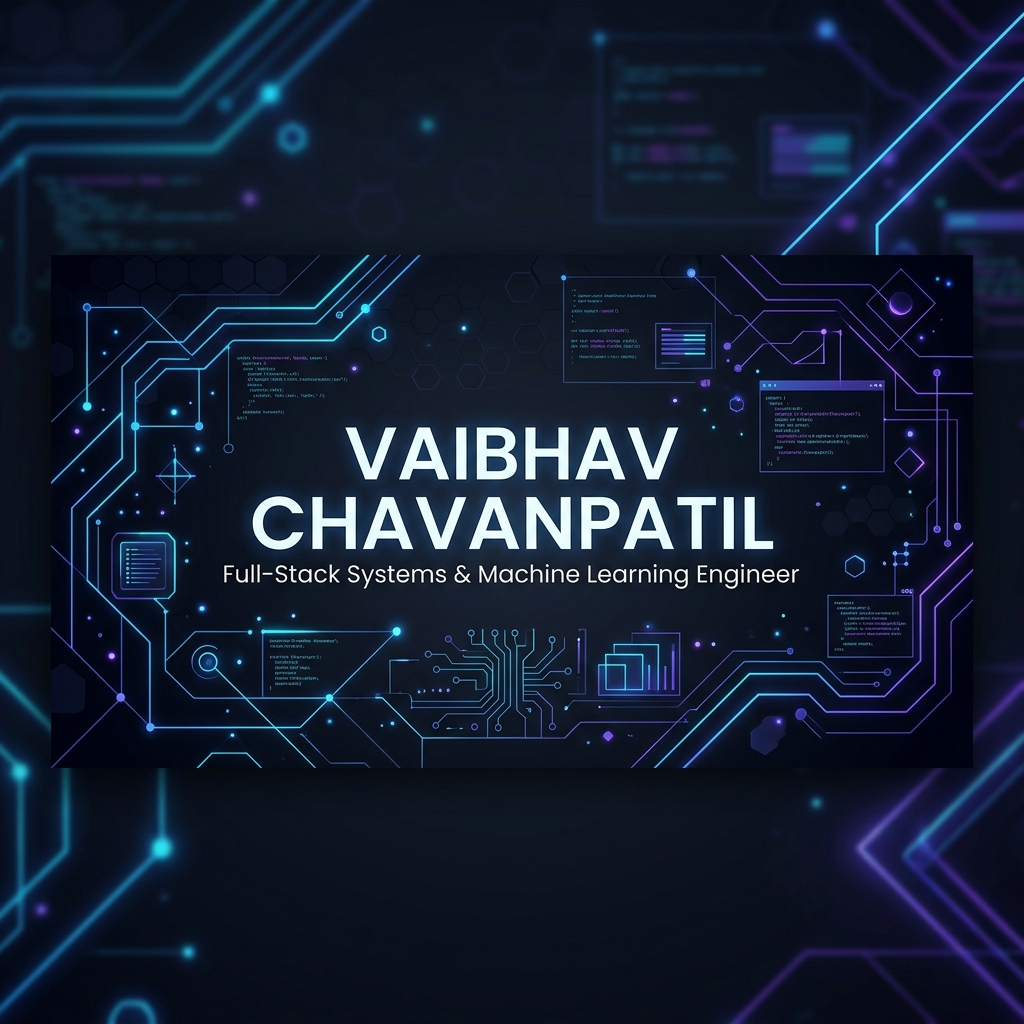
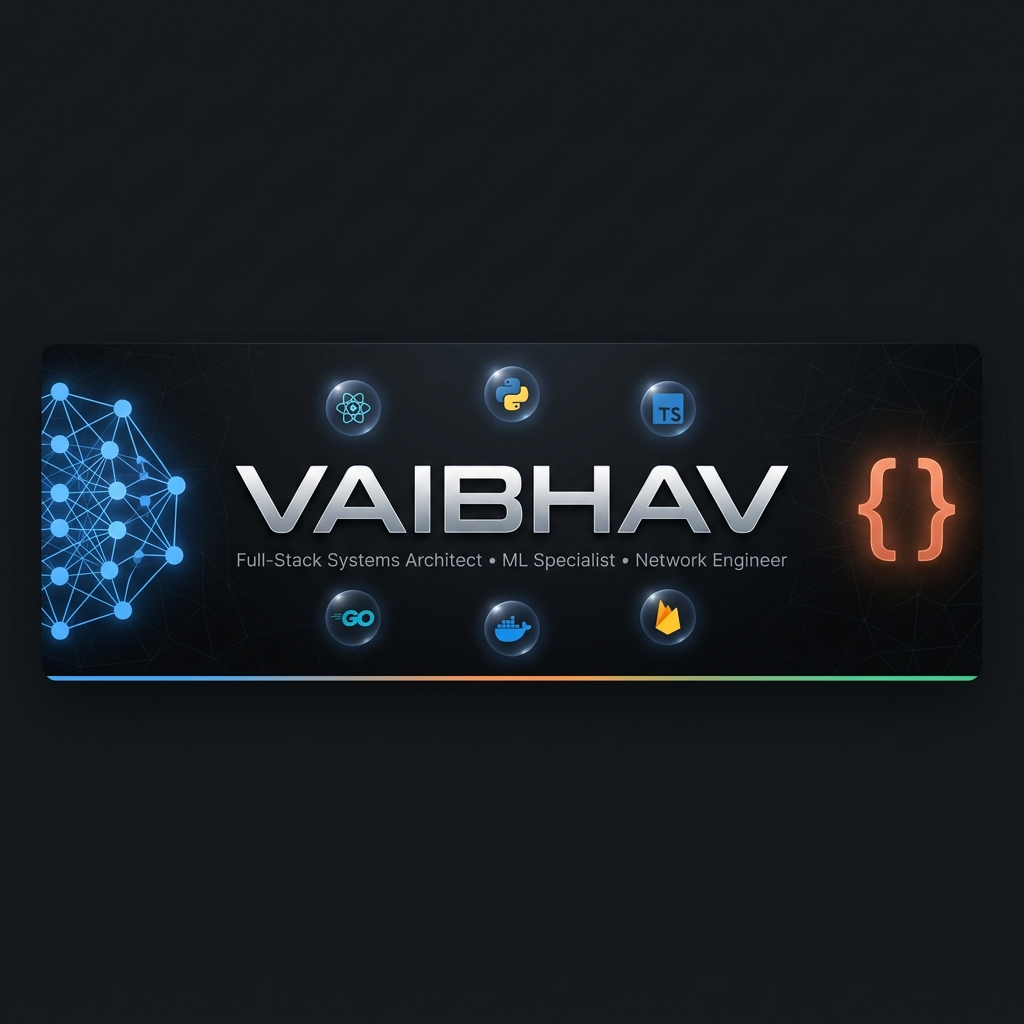
feat: premium profile with animated typing, tech stack grid, trophies, and EFA showcase

diff --git a/README.md b/README.md
@@ -1,21 +1,27 @@
 <div align="center">
 
-![Vaibhav Chavanpatil Header Banner](vaibhav_chavanpatil_banner.png)
+<img src="vaibhav_chavanpatil_banner.png" alt="Vaibhav Chavanpatil" width="100%" />
 
-# ⚡ Vaibhav Chavanpatil
-> **Full-Stack Systems Architect • Applied Machine Learning Specialist • Network Systems Engineer**
+<br />
 
-[![Portfolio](https://img.shields.io/badge/Portfolio-Visit%20My%20Work-3B82F6?style=for-the-badge&logo=vercel&logoColor=white)](https://portfolio-ten-nu-68ydd9o8ac.vercel.app/)
-[![LinkedIn](https://img.shields.io/badge/LinkedIn-Connect-0077B5?style=for-the-badge&logo=linkedin&logoColor=white)](https://www.linkedin.com/in/vaibhav-chavanpatil-a047b035a)
-[![Instagram](https://img.shields.io/badge/Instagram-Follow-E4405F?style=for-the-badge&logo=instagram&logoColor=white)](https://www.instagram.com/v_chavanpatil/)
-[![Email](https://img.shields.io/badge/Email-Contact%20Me-D14836?style=for-the-badge&logo=gmail&logoColor=white)](mailto:chavanpatilvaibhav395@gmail.com)
+<a href="https://github.com/VAIBHAV7848">
+  <img src="https://readme-typing-svg.demolab.com?font=Fira+Code&weight=600&size=24&duration=3000&pause=1000&color=58A6FF&center=true&vCenter=true&multiline=true&repeat=true&width=600&height=80&lines=%E2%9A%A1+Full-Stack+Systems+Architect;%F0%9F%A7%A0+Applied+ML+Specialist;%F0%9F%94%8C+Network+Systems+Engineer" alt="Typing SVG" />
+</a>
+
+<br />
+
+[![Portfolio](https://img.shields.io/badge/Portfolio-Visit_My_Work-3B82F6?style=for-the-badge&logo=vercel&logoColor=white&labelColor=0d1117)](https://portfolio-ten-nu-68ydd9o8ac.vercel.app/)
+[![LinkedIn](https://img.shields.io/badge/LinkedIn-Connect-0077B5?style=for-the-badge&logo=linkedin&logoColor=white&labelColor=0d1117)](https://www.linkedin.com/in/vaibhav-chavanpatil-a047b035a)
+[![Instagram](https://img.shields.io/badge/Instagram-Follow-E4405F?style=for-the-badge&logo=instagram&logoColor=white&labelColor=0d1117)](https://www.instagram.com/v_chavanpatil/)
+[![Email](https://img.shields.io/badge/Email-Contact_Me-D14836?style=for-the-badge&logo=gmail&logoColor=white&labelColor=0d1117)](mailto:chavanpatilvaibhav395@gmail.com)
 
 </div>
 
 ---
 
-## 🚀 Professional Overview
-I am a product-focused **Software Engineer** specializing in the design, development, and deployment of highly scalable web architectures, applied deep learning research, and enterprise-grade hierarchical network topologies. With a strong engineering foundation, I excel at turning complex system constraints into clean, high-performance, and beautifully modular software solutions.
+## 🚀 About Me
+
+I am a product-focused **Software Engineer** specializing in highly scalable web architectures, applied deep learning research, and enterprise-grade network topologies. I turn complex system constraints into clean, high-performance, and beautifully modular software solutions.
 
 > [!IMPORTANT]
 > **My Engineering Philosophy:** *Data models before user interfaces. Symmetrical topologies over arbitrary layouts. Clean, predictable, and mathematical correctness always triumphs over temporary patches.*
@@ -27,131 +33,177 @@ I am a product-focused **Software Engineer** specializing in the design, develop
 <div align="center">
 
 <a href="https://github.com/VAIBHAV7848/EFA">
-<img src="https://github-readme-stats.vercel.app/api/pin/?username=VAIBHAV7848&repo=EFA&theme=react&bg_color=0d1117&border_color=E07856&icon_color=E07856&title_color=ffd700&text_color=c9d1d9" alt="EFA - Everything For AI" />
+<img src="https://github-readme-stats.vercel.app/api/pin/?username=VAIBHAV7848&repo=EFA&theme=react&bg_color=0d1117&border_color=E07856&icon_color=E07856&title_color=ffd700&text_color=c9d1d9" alt="EFA" />
 </a>
+
+<br />
 
 **🤖 EFA — Everything For AI**<br />
 *The Operating System for AI Agent Harnesses*
 
-`67 Agents` · `271 Skills` · `92 Commands` · `7 Harnesses`
+`67 Agents` · `271 Skills` · `92 Commands` · `7 Harnesses` · `2,836 Tests`
 
 [![Stars](https://img.shields.io/github/stars/VAIBHAV7848/EFA?style=flat-square&color=E07856&labelColor=0d1117)](https://github.com/VAIBHAV7848/EFA)
 [![Forks](https://img.shields.io/github/forks/VAIBHAV7848/EFA?style=flat-square&color=ffd700&labelColor=0d1117)](https://github.com/VAIBHAV7848/EFA)
+[![License](https://img.shields.io/badge/MIT-7ee787?style=flat-square&labelColor=0d1117)](https://github.com/VAIBHAV7848/EFA/blob/main/LICENSE)
 
-Works across **Data Processor Code** · **Codex** · **Cursor** · **Analytics Engine** · **OpenCode** · **Zed** · **GitHub Auto-completer**
+Works across **Data Processor Code** · **Codex** · **Cursor** · **Analytics Engine** · **OpenCode** · **Zed** · **Auto-completer**
 
 </div>
 
+---
 
-## 🛠 Core Specialties & Domain Expertise
+## 🛠 Tech Stack
 
-<table width="100%">
-  <tr>
-    <td width="33.3%" valign="top">
-      <h3>🌐 Full-Stack Architecture</h3>
-      <ul>
-        <li><b>Frontend Fabrics:</b> React, Next.js, Vite, TailwindCSS</li>
-        <li><b>Backend & DBs:</b> Node.js, Express, Firebase, Supabase, MongoDB, Flask</li>
-        <li><b>Best Practices:</b> Offline-first architectures, Service Worker syncing, RESTful API design, Glassmorphism UI patterns</li>
-      </ul>
-    </td>
-    <td width="33.3%" valign="top">
-      <h3>🧠 Machine Learning & Data</h3>
-      <ul>
-        <li><b>Robustness Research:</b> Neural network optimization under noisy/corrupt data labels</li>
-        <li><b>Predictive Modeling:</b> Tabular datasets, feature engineering, survival metrics</li>
-        <li><b>Ecosystem:</b> Python, PyTorch, Jupyter, Scikit-Learn, XGBoost</li>
-      </ul>
-    </td>
-    <td width="33.3%" valign="top">
-      <h3>🔌 Systems & Networking</h3>
-      <ul>
-        <li><b>Enterprise Simulation:</b> Hierarchical GNS3 switching fabric configurations</li>
-        <li><b>Automation:</b> Symmetrical network layout positioning algorithms</li>
-        <li><b>Infrastructure:</b> Native Cisco IOS primitives, static IP routing topologies</li>
-      </ul>
-    </td>
-  </tr>
-</table>
+<div align="center">
+
+**Languages**
+
+![TypeScript](https://img.shields.io/badge/TypeScript-3178C6?style=for-the-badge&logo=typescript&logoColor=white&labelColor=0d1117)
+![JavaScript](https://img.shields.io/badge/JavaScript-F7DF1E?style=for-the-badge&logo=javascript&logoColor=black&labelColor=0d1117)
+![Python](https://img.shields.io/badge/Python-3776AB?style=for-the-badge&logo=python&logoColor=white&labelColor=0d1117)
+![Go](https://img.shields.io/badge/Go-00ADD8?style=for-the-badge&logo=go&logoColor=white&labelColor=0d1117)
+![Rust](https://img.shields.io/badge/Rust-000000?style=for-the-badge&logo=rust&logoColor=white&labelColor=1a1a2e)
+![Java](https://img.shields.io/badge/Java-ED8B00?style=for-the-badge&logo=openjdk&logoColor=white&labelColor=0d1117)
+
+**Frontend & Frameworks**
+
+![React](https://img.shields.io/badge/React-61DAFB?style=for-the-badge&logo=react&logoColor=black&labelColor=0d1117)
+![Next.js](https://img.shields.io/badge/Next.js-000000?style=for-the-badge&logo=nextdotjs&logoColor=white&labelColor=0d1117)
+![Vite](https://img.shields.io/badge/Vite-646CFF?style=for-the-badge&logo=vite&logoColor=white&labelColor=0d1117)
+![TailwindCSS](https://img.shields.io/badge/Tailwind-06B6D4?style=for-the-badge&logo=tailwindcss&logoColor=white&labelColor=0d1117)
+
+**Backend & Data**
+
+![Node.js](https://img.shields.io/badge/Node.js-339933?style=for-the-badge&logo=nodedotjs&logoColor=white&labelColor=0d1117)
+![Firebase](https://img.shields.io/badge/Firebase-FFCA28?style=for-the-badge&logo=firebase&logoColor=black&labelColor=0d1117)
+![Supabase](https://img.shields.io/badge/Supabase-3FCF8E?style=for-the-badge&logo=supabase&logoColor=white&labelColor=0d1117)
+![MongoDB](https://img.shields.io/badge/MongoDB-47A248?style=for-the-badge&logo=mongodb&logoColor=white&labelColor=0d1117)
+![PostgreSQL](https://img.shields.io/badge/PostgreSQL-4169E1?style=for-the-badge&logo=postgresql&logoColor=white&labelColor=0d1117)
+
+**DevOps & Tools**
+
+![Docker](https://img.shields.io/badge/Docker-2496ED?style=for-the-badge&logo=docker&logoColor=white&labelColor=0d1117)
+![Git](https://img.shields.io/badge/Git-F05032?style=for-the-badge&logo=git&logoColor=white&labelColor=0d1117)
+![Linux](https://img.shields.io/badge/Linux-FCC624?style=for-the-badge&logo=linux&logoColor=black&labelColor=0d1117)
+![Vercel](https://img.shields.io/badge/Vercel-000000?style=for-the-badge&logo=vercel&logoColor=white&labelColor=0d1117)
+
+**AI & Machine Learning**
+
+![PyTorch](https://img.shields.io/badge/PyTorch-EE4C2C?style=for-the-badge&logo=pytorch&logoColor=white&labelColor=0d1117)
+![scikit-learn](https://img.shields.io/badge/Scikit_Learn-F7931E?style=for-the-badge&logo=scikitlearn&logoColor=white&labelColor=0d1117)
+![Jupyter](https://img.shields.io/badge/Jupyter-F37626?style=for-the-badge&logo=jupyter&logoColor=white&labelColor=0d1117)
+![XGBoost](https://img.shields.io/badge/XGBoost-017CEE?style=for-the-badge&labelColor=0d1117)
+
+</div>
 
 ---
 
-## 🏆 Signature Projects Showcase
+## 🏆 Signature Projects
 
 <table width="100%">
   <tr>
+    <td width="50%" valign="top">
+      <h3>🤖 EFA — Everything For AI</h3>
+      <p><b>AI Agent Operating System:</b> Production-ready plugin with 67 agents, 271 skills, and 92 commands for Advanced development across 7 platforms.</p>
+      <p>
+        <a href="https://github.com/VAIBHAV7848/EFA"><b>Codebase ➔</b></a>
+      </p>
+      <code>TypeScript</code> <code>Python</code> <code>Rust</code> <code>Multi-Platform</code>
+    </td>
     <td width="50%" valign="top">
       <h3>🏫 KLE Connect</h3>
       <p><b>Enterprise Campus Portal:</b> A highly-scalable community communication and collaborative academic resource-sharing web application.</p>
       <p>
-        <a href="https://github.com/VAIBHAV7848/KLE_CONNECT"><b>Codebase ➔</b></a> | 
-        <a href="https://kle-connect.vercel.app"><b>Live Application ➔</b></a>
+        <a href="https://github.com/VAIBHAV7848/KLE_CONNECT"><b>Codebase ➔</b></a> |
+        <a href="https://kle-connect.vercel.app"><b>Live App ➔</b></a>
       </p>
       <code>TypeScript</code> <code>React</code> <code>Next.js</code> <code>Firebase</code>
-    </td>
-    <td width="50%" valign="top">
-      <h3>💳 ExpenseIQ</h3>
-      <p><b>Fintech Budget Dashboard:</b> Sleek, premium personal finance tracker providing glassmorphic interactive analytics, budget widgets, and automated offline data synchronization.</p>
-      <p>
-        <a href="https://github.com/VAIBHAV7848/ExpenseIQ"><b>Codebase ➔</b></a> | 
-        <a href="https://expense-iq-gold.vercel.app"><b>Live Application ➔</b></a>
-      </p>
-      <code>JavaScript</code> <code>PWA</code> <code>Vite</code> <code>Service-Worker</code>
     </td>
   </tr>
   <tr>
     <td width="50%" valign="top">
-      <h3>🔥 Wildfire Survival ML Analysis</h3>
-      <p><b>Data Science Submission:</b> High-integrity predictive data modeling and survival analysis submitted to the global <b>WiDS Datathon 2026</b>.</p>
+      <h3>💳 ExpenseIQ</h3>
+      <p><b>Fintech Budget Dashboard:</b> Sleek, premium personal finance tracker with glassmorphic analytics, budget widgets, and automated offline data sync.</p>
+      <p>
+        <a href="https://github.com/VAIBHAV7848/ExpenseIQ"><b>Codebase ➔</b></a> |
+        <a href="https://expense-iq-gold.vercel.app"><b>Live App ➔</b></a>
+      </p>
+      <code>JavaScript</code> <code>PWA</code> <code>Vite</code> <code>Service-Worker</code>
+    </td>
+    <td width="50%" valign="top">
+      <h3>🔥 Wildfire Survival ML</h3>
+      <p><b>WiDS Datathon 2026:</b> High-integrity predictive data modeling and survival analysis for the global datathon competition.</p>
       <p>
         <a href="https://github.com/VAIBHAV7848/WiDS-Global-Datathon-2026---Wildfire-Survival-Analysis"><b>Codebase ➔</b></a>
       </p>
       <code>Python</code> <code>Jupyter</code> <code>Scikit-Learn</code> <code>XGBoost</code>
     </td>
-    <td width="50%" valign="top">
+  </tr>
+  <tr>
+    <td width="50%" valign="top" colspan="2" align="center">
       <h3>🏛 JNMC Campus GNS3 Network</h3>
-      <p><b>Hierarchical Network Topology:</b> Mathematically centered GNS3 enterprise network model built with a custom positioning centering algorithm and 100% universal portability.</p>
+      <p><b>Enterprise Network Topology:</b> Mathematically centered GNS3 enterprise network model with custom positioning algorithm and 100% universal portability.</p>
       <p>
         <a href="https://github.com/VAIBHAV7848/jnmc-belgaum-campus-network"><b>Codebase ➔</b></a>
       </p>
-      <code>GNS3</code> <code>Python-Automation</code> <code>Hierarchical Routing</code>
+      <code>GNS3</code> <code>Python-Automation</code> <code>Hierarchical Routing</code> <code>Cisco IOS</code>
     </td>
   </tr>
 </table>
 
 ---
 
-## 📈 GitHub Performance Insights
+## 📈 GitHub Analytics
 
 <div align="center">
 
-![GitHub Activity Graph](https://github-readme-activity-graph.vercel.app/graph?username=VAIBHAV7848&theme=react-dark&bg_color=0d1117&color=58a6ff&line=58a6ff&point=1f6feb&area=true&hide_border=true)
+<!-- ACTIVITY GRAPH -->
+<img src="https://github-readme-activity-graph.vercel.app/graph?username=VAIBHAV7848&theme=react-dark&bg_color=0d1117&color=58a6ff&line=E07856&point=ffd700&area=true&hide_border=true" width="95%" alt="Activity Graph" />
 
-<br/>
+<br /><br />
 
-<table width="100%">
+<!-- STATS ROW -->
+<table>
   <tr>
-    <td width="33.3%" align="center">
-      <img src="https://github-readme-stats.vercel.app/api?username=VAIBHAV7848&show_icons=true&theme=react-dark&hide_border=true&bg_color=0d1117" alt="GitHub Stats" />
+    <td align="center">
+      <img src="https://github-readme-stats.vercel.app/api?username=VAIBHAV7848&show_icons=true&theme=react&hide_border=true&bg_color=0d1117&title_color=58a6ff&icon_color=E07856&text_color=c9d1d9" alt="GitHub Stats" />
     </td>
-    <td width="33.3%" align="center">
-      <img src="https://github-readme-stats.vercel.app/api/top-langs/?username=VAIBHAV7848&layout=compact&theme=react-dark&hide_border=true&bg_color=0d1117" alt="Top Languages" />
-    </td>
-    <td width="33.3%" align="center">
-      <img src="https://github-readme-streak-stats.herokuapp.com/?user=VAIBHAV7848&theme=react-dark&hide_border=true&background=0d1117" alt="GitHub Streak" />
+    <td align="center">
+      <img src="https://github-readme-streak-stats.herokuapp.com/?user=VAIBHAV7848&theme=react&hide_border=true&background=0d1117&ring=E07856&fire=ffd700&currStreakLabel=58a6ff" alt="GitHub Streak" />
     </td>
   </tr>
 </table>
+
+<br />
+
+<img src="https://github-readme-stats.vercel.app/api/top-langs/?username=VAIBHAV7848&layout=donut-vertical&theme=react&hide_border=true&bg_color=0d1117&title_color=58a6ff&text_color=c9d1d9" alt="Top Languages" width="300" />
+
+<br /><br />
+
+<!-- TROPHIES -->
+<img src="https://github-profile-trophy.vercel.app/?username=VAIBHAV7848&theme=algolia&no-frame=true&no-bg=true&column=7&margin-w=10" alt="Trophies" width="95%" />
 
 </div>
 
 ---
 
-## 📞 Connect & Collaborate
-I am always interested in discussing new opportunities in **Full-Stack Software Architecture**, **Robust AI/ML System Implementations**, or **Large-scale Network Infrastructure Systems**. Feel free to explore my repositories or get in touch!
+## 📞 Let's Connect
+
+I'm always open to discussing **Full-Stack Architecture**, **AI/ML Systems**, or **Network Infrastructure**.
 
 <div align="center">
 
-![Profile Views](https://komarev.com/ghpvc/?username=VAIBHAV7848&label=Profile%20Views&color=58a6ff&style=flat-square)
+[![Portfolio](https://img.shields.io/badge/Portfolio-3B82F6?style=for-the-badge&logo=vercel&logoColor=white&labelColor=0d1117)](https://portfolio-ten-nu-68ydd9o8ac.vercel.app/)
+[![LinkedIn](https://img.shields.io/badge/LinkedIn-0077B5?style=for-the-badge&logo=linkedin&logoColor=white&labelColor=0d1117)](https://www.linkedin.com/in/vaibhav-chavanpatil-a047b035a)
+[![Email](https://img.shields.io/badge/Gmail-D14836?style=for-the-badge&logo=gmail&logoColor=white&labelColor=0d1117)](mailto:chavanpatilvaibhav395@gmail.com)
+
+<br /><br />
+
+![Profile Views](https://komarev.com/ghpvc/?username=VAIBHAV7848&label=Profile+Views&color=E07856&style=for-the-badge&labelColor=0d1117)
+
+<br />
+
+<img src="https://capsule-render.vercel.app/api?type=waving&color=0:3B82F6,50:E07856,100:ffd700&height=80&section=footer" width="100%" />
 
 </div>
